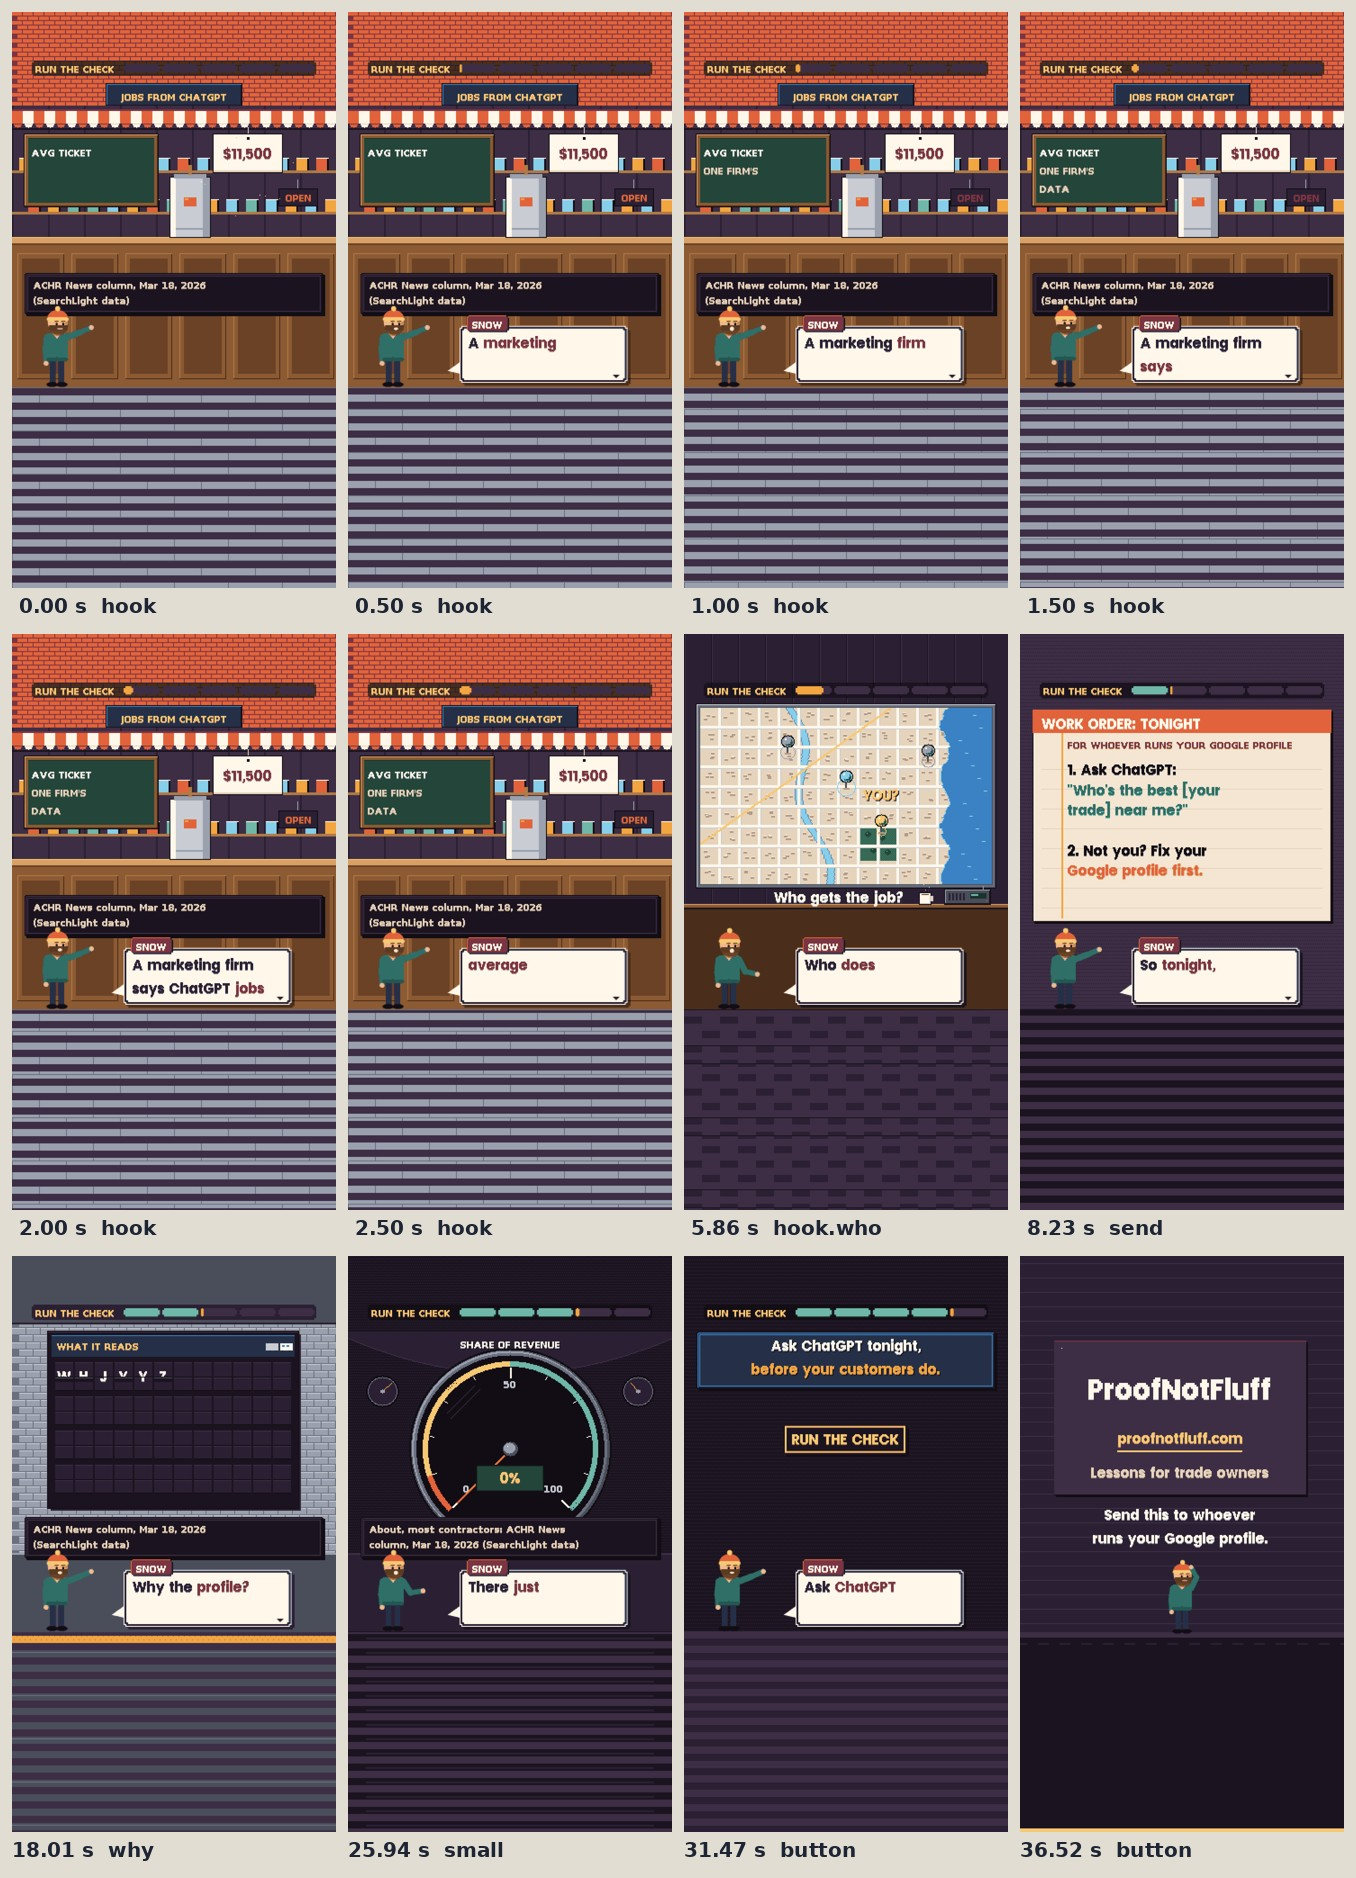
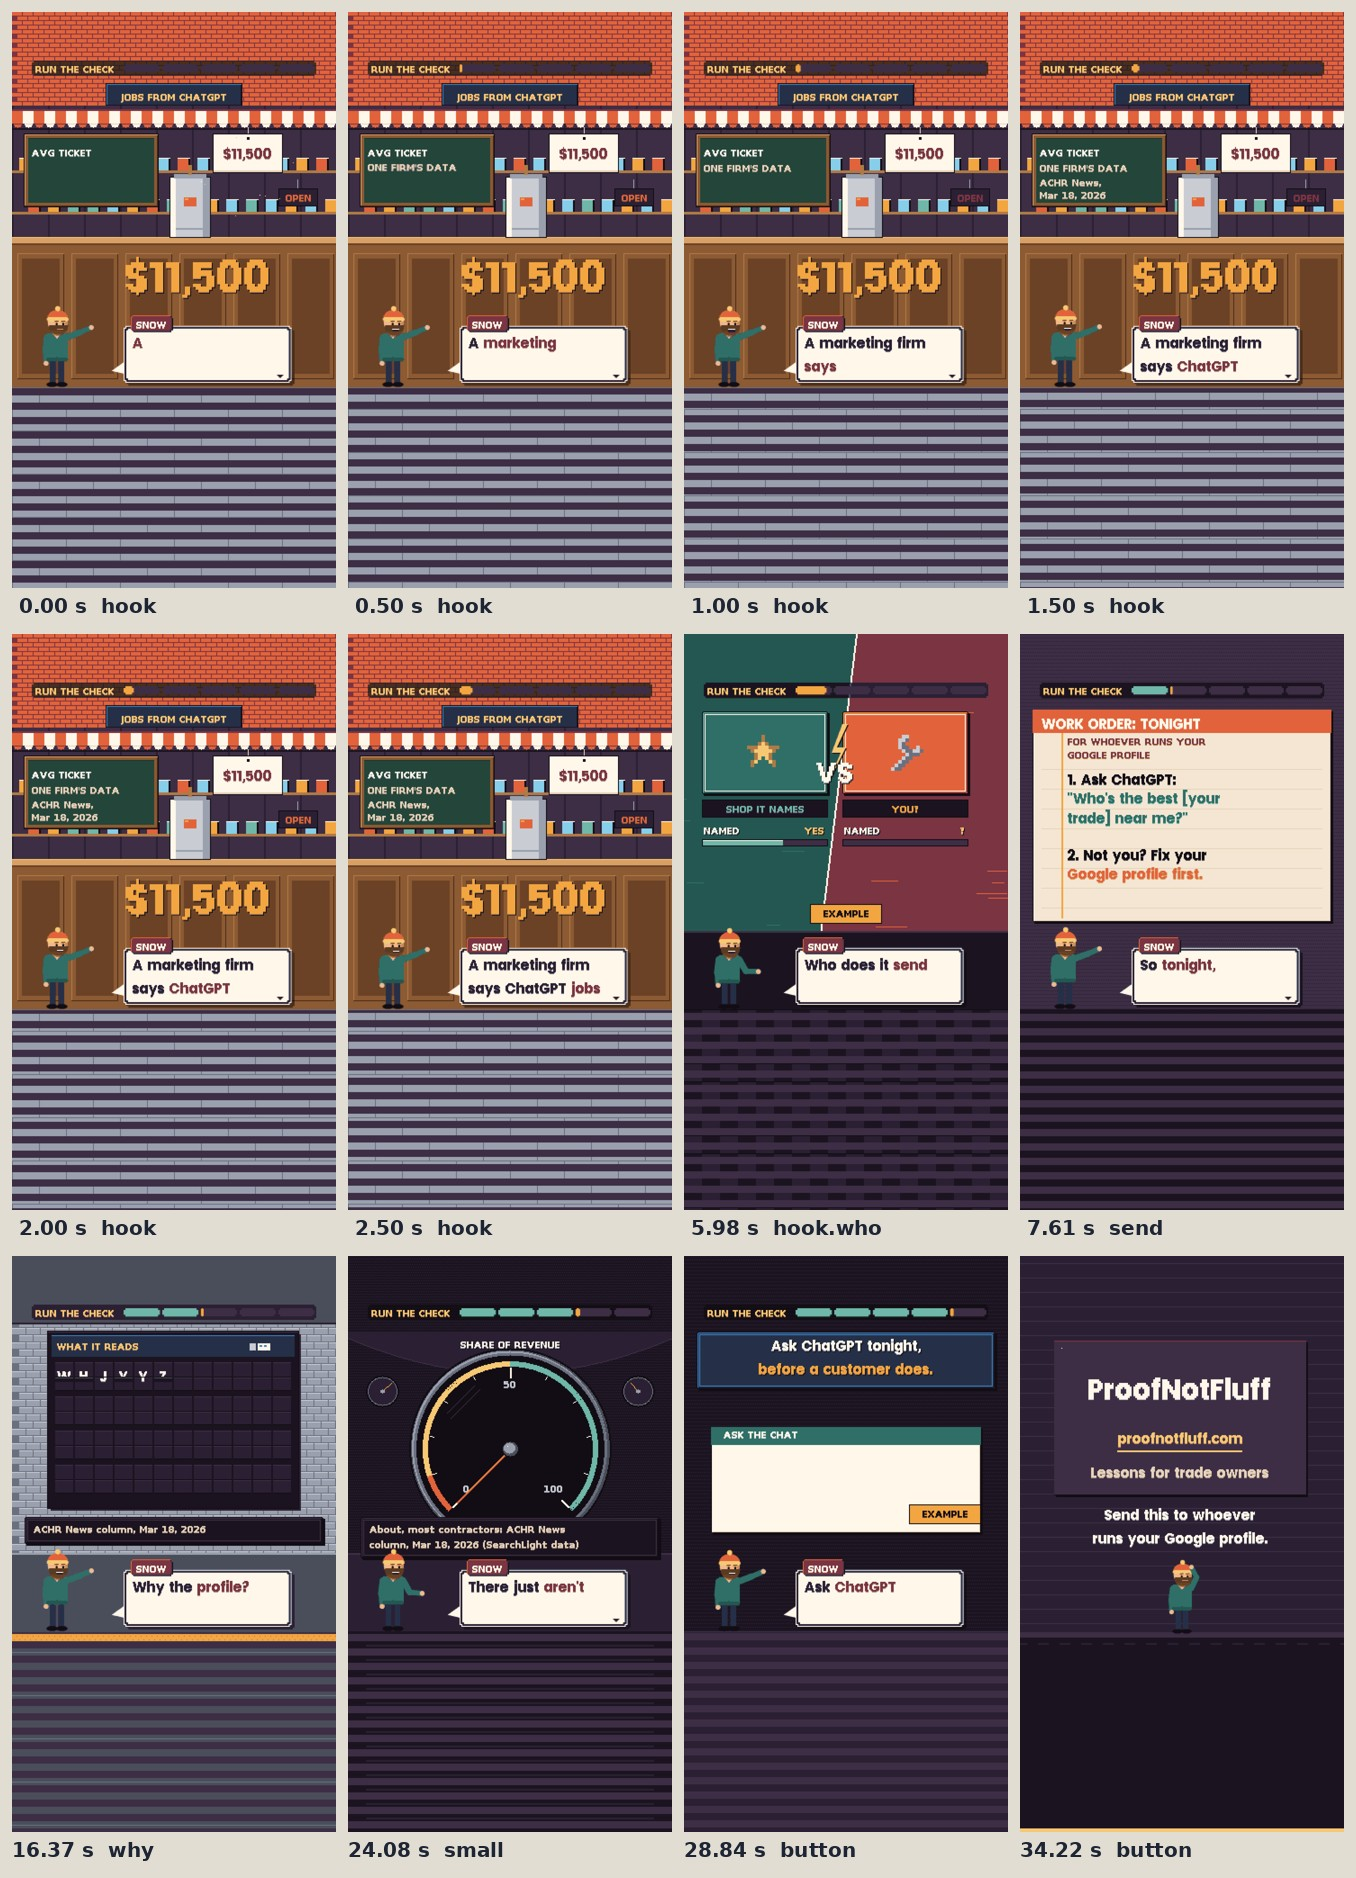
studio: chatgpt-check-short gates r0 (qa, facts, facts-captions, render critic 0 faults, send PASS; design FAIL 4.29), scene r2 on design r0's six fixes and the facts and send notes
Claude-Session: https://claude.ai/code/session_01XMn4eG6pqnr4bMcGNovyWG

diff --git a/video/studio/videos/2026-11-23-chatgpt-check-short/04_scene/scene.js b/video/studio/videos/2026-11-23-chatgpt-check-short/04_scene/scene.js
@@ -73,12 +73,25 @@ const workOrder = (k, d, t0, o = {}) => {
   if (up) return;
   const at = (i) => (o.still ? -10 : t0 + 0.2 + i * 0.05), sl = {from: 0.3, glint: false};
   k.text('WORK ORDER: TONIGHT', 72, 266, {size: 52, color: CREAM});
-  k.text('FOR WHOEVER RUNS YOUR GOOGLE PROFILE', 160, 352, {size: 36, color: '#7A3442'});
-  k.slam('1. Ask ChatGPT:', 160, 420, at(0), Object.assign({size: 52, color: INK}, sl));
-  k.slam('"Who\'s the best [your', 160, 488, at(1), Object.assign({size: 56, color: '#2F6F67'}, sl));
-  k.slam('trade] near me?"', 160, 554, at(2), Object.assign({size: 56, color: '#2F6F67'}, sl));
-  k.slam('2. Not you? Fix your', 160, 690, at(3), Object.assign({size: 56, color: INK}, sl));
-  k.slam('Google profile first.', 160, 756, at(4), Object.assign({size: 56, color: RED}, sl));
+  k.text('FOR WHOEVER RUNS YOUR', 160, 340, {size: 42, color: '#7A3442'}); k.text('GOOGLE PROFILE', 160, 384, {size: 42, color: '#7A3442'});   /* send r0 note: one size up */
+  k.slam('1. Ask ChatGPT:', 160, 452, at(0), Object.assign({size: 52, color: INK}, sl));
+  k.slam('"Who\'s the best [your', 160, 516, at(1), Object.assign({size: 56, color: '#2F6F67'}, sl));
+  k.slam('trade] near me?"', 160, 582, at(2), Object.assign({size: 56, color: '#2F6F67'}, sl));
+  k.slam('2. Not you? Fix your', 160, 704, at(3), Object.assign({size: 56, color: INK}, sl));
+  k.slam('Google profile first.', 160, 770, at(4), Object.assign({size: 56, color: RED}, sl));
+};
+
+/* our own drawn chat box on her phone (EXAMPLE, no brand, no reply): the question types from t0 */
+const chatBox = (k, d, q, t0, o = {}) => {
+  const {P, win} = d, up = d.ease(t0 - 0.1, 6, 40);
+  win(30, 150 + up, 300, 118, {base: CREAM, hi: '#FFFFFF', lo: SAND, rule: false});
+  P(30, 150 + up, 300, 20, '#2F6F67'); k.text('ASK THE CHAT', 132, 456 + up * 3, {size: 39, color: CREAM});
+  if (up) return;
+  const n = Math.max(0, Math.floor((k.T - t0) * 34)); let left = n;
+  q.forEach((s, i) => { const m = Math.min(s.length, left); left -= m; if (m) k.text(s.slice(0, m), 120, 540 + i * 62, {size: 48, color: INK}); });
+  const done = n >= q.join('').length;
+  if (done) { P(290, 236, 28, 22, '#2F6F67'); d.line(298, 247, 310, 247, CREAM, 2); d.line(306, 242, 311, 247, CREAM, 2); d.line(306, 252, 311, 247, CREAM, 2);
+    const dots = Math.floor((k.T - t0) * 3) % 4; for (let i = 0; i < 3; i++) d.disc(52 + i * 12, 248, 3, i < dots ? '#2F6F67' : SAND); }
 };
 
 window.SCENE = {
@@ -87,7 +100,7 @@ window.SCENE = {
   host_name: 'Snow',
   hud: 'RUN THE CHECK',
   sendLine: 'Send this to whoever runs your Google profile.',
-  transitions: {send: 'levelselect', why: 'mosaic', small: 'dissolve', button: 'gameover'},
+  transitions: {send: 'dissolve', why: 'mosaic', small: 'fade4', button: 'levelselect'}   /* design r0: not angi-four-pros' moves */,
   trauma: {},
   sections: {
     /* ---- hook: the cover is the storefront with the tag at the firm's average ticket; on "eleven" the tag sways in;   */
@@ -98,15 +111,17 @@ window.SCENE = {
         k.sets.counter({shop: 'JOBS FROM CHATGPT', item: 'heater', tags: [{price: tk.shown, at: -0.5}]});
         const d = px(k), tA = Math.min(0.9, wordT(k, 'hook', /^firm/i, 0.8) - 0.2), tB = Math.min(2.2, wordT(k, 'hook', /^chatgpt/i, 1.6) - 0.2);
         k.text('AVG TICKET', 66, 450, {size: 39, color: CREAM});
-        if (T >= tA) k.slam("ONE FIRM'S", 66, 510, tA, {size: 39, color: SAND, from: 0.3, glint: false});
-        if (T >= tB) k.slam('DATA', 66, 570, tB, {size: 39, color: SAND, from: 0.3, glint: false});
-        if (T >= tEl) stampBox(k, 'PER JOB', 780, 640, tEl, {color: GOLD, size: 52, freeze: 3});
-        tag(k, d, 'ACHR News column, Mar 18, 2026', 290, '(SearchLight data)');
+        if (T >= tA) k.slam("ONE FIRM'S DATA", 66, 500, tA, {size: 36, color: SAND, from: 0.3, glint: false});
+        if (T >= tB) { k.slam('ACHR News,', 66, 548, tB, {size: 36, color: SAND, from: 0.3, glint: false}); k.slam('Mar 18, 2026', 66, 590, tB + 0.05, {size: 36, color: SAND, from: 0.3, glint: false}); }
+        /* design r0: the stake as one huge number from frame 0 (accent, 170 px); it kicks on "eleven" */
+        if (T < tEl) k.text(tk.shown, 620, 790, {size: 170, color: 'accent', align: 'center', drop: INK});
+        else k.slam(tk.shown, 620, 790, tEl, {size: 170, color: 'accent', align: 'center', drop: INK, from: 0.85, shake: 6});
         return host(k, T >= tEl ? 'shock' : 'point');
       }
       const tS = wordT(k, 'hook.who', /^send/i, 0.6) - 0.2;
       /* our versus screen (EXAMPLE): the shop it names against YOU?; no winner is drawn, the question stays open */
-      k.sets.versus({a: {name: 'SHOP IT NAMES', icon: 'star', stats: []}, b: {name: 'YOU?', icon: 'wrench', stats: []}, at: tWho, vsAt: tS});
+      k.sets.versus({a: {name: 'SHOP IT NAMES', icon: 'star', stats: [{label: 'NAMED', value: 1, text: 'YES'}]}, b: {name: 'YOU?', icon: 'wrench', stats: [{label: 'NAMED', value: 0, text: '?'}]}, at: tWho, vsAt: tS, max: 1});
+      exampleTag(px(k), 140, 300);   /* facts r0 note: our story beat, labeled */
       return host(k);
     },
 
@@ -123,14 +138,15 @@ window.SCENE = {
     why: (k, T) => {
       const t0 = k.S('why'), ts = [wordT(k, 'why', /^name/i, 3.0) - 0.3, wordT(k, 'why', /^website/i, 3.6) - 0.3, wordT(k, 'why', /^reviews/i, 4.2) - 0.3];
       const r = k.sets.flaps({title: 'WHAT IT READS', cols: 12, rows: [{label: 'NAME', value: 'YOURS', at: Math.min(ts[0], t0 + 0.4)}, {label: 'WEBSITE', value: 'YOURS', at: ts[1]}, {label: 'REVIEWS', value: 'YOURS', at: ts[2], hi: true}]});
-      const d = px(k); tag(k, d, 'ACHR News column, Mar 18, 2026', 290, '(SearchLight data)');
+      const d = px(k); tag(k, d, 'ACHR News column, Mar 18, 2026', 290);   /* facts r0 note: the column's own line, not a SearchLight number */
       return host(k, 'point');
     },
 
     /* ---- small: the gauge, the needle barely leaves zero: about 1% of revenue, most contractors, today.               */
     small: (k, T) => {
       const t0 = k.S('small'), tOne = wordT(k, 'small', /^one$/i, 1.6) - 0.4, r1 = k.data.numbers.rev1;
-      const r = k.sets.gauge({value: r1.value, max: 100, at: Math.max(t0 + 0.2, tOne - 0.6), dur: 0.8, zones: [[0, 10, RED], [10, 50, GOLD], [50, 100, TEAL]], label: 'SHARE OF REVENUE', suffix: '%'});
+      const r = k.sets.gauge({value: r1.value, max: 100, at: Math.max(t0 + 0.2, tOne - 0.6), dur: 0.8, zones: [[0, 10, RED], [10, 50, GOLD], [50, 100, TEAL]], label: 'SHARE OF REVENUE', suffix: '%', readout: false});
+      if (T >= tOne) k.slam(r1.shown, 540, 680, tOne, {size: 150, color: 'accent', align: 'center', drop: INK, from: 0.6, shake: 8});   /* design r0: the verdict lands big with a kick */
       const d = px(k);
       tag(k, d, 'About, most contractors: ACHR News', 290, 'column, Mar 18, 2026 (SearchLight data)');
       return host(k, T >= tOne ? 'shrug' : null);
@@ -142,7 +158,9 @@ window.SCENE = {
       const d = px(k), {P, dith} = d;
       P(0, 0, 360, 417, '#1B1420'); for (let y = 0; y < 417; y += 4) dith(0, y, 360, 1, '#241A2B', (y / 4) % 2);
       topPlate(k, d, 'Ask ChatGPT tonight,', 'before a customer does.', k.S('button') + 0.02);
-      if (T >= tA) stampBox(k, 'RUN THE CHECK', 540, 560, tA, {color: GOLD, size: 66, freeze: 3});
+      /* design r0: the band carries the question itself, typing into our own chat box (EXAMPLE) */
+      chatBox(k, d, ["Who's the best [trade]", 'near me?'], Math.max(k.S('button') + 0.3, tA));
+      exampleTag(d, 250, 276);
       return host(k, 'point');
     },
   },

diff --git a/video/studio/videos/2026-11-23-chatgpt-check-short/03_cues/cues.js b/video/studio/videos/2026-11-23-chatgpt-check-short/03_cues/cues.js
@@ -1,1 +1,1 @@
-window.CUES = {"schema": "pnf.studio.cues.v1", "source": "whisper medium.en int8, re-spelled from script.md", "music": {"id": "rooms", "level": 0.16, "tune": "quest"}, "duration": 34.539, "cues": [{"id": "hook", "level": 0, "quote": "A marketing firm says", "sfx": "pop", "shift": 0.0, "pin": null, "text": "Cover, frame one: the storefront (counter set), a furnace on the counter, the tag already reads $11,500; plate \"ChatGPT jobs:\" / \"$11,500 avg ticket\"; the chalk board: AVG CHATGPT JOB, the source tag under it. The host in frame. On \"eleven\" the tag sways and sparks.", "t": 0.0, "word": 0, "end": 7.007}, {"id": "hook.who", "level": 1, "quote": "Who does it send", "sfx": "whoosh", "shift": 0.0, "pin": null, "text": "The dispatch board: three shop pins drop (SHOP A, SHOP B, YOU?), a route draws from the homeowner's pin toward one shop; a big \"?\" over YOU.", "t": 5.38, "word": 14, "end": 7.007}, {"id": "send", "level": 0, "quote": "So tonight, ask ChatGPT", "sfx": "stamp", "shift": 0.0, "pin": null, "text": "THE CHECK as a work order (the send moment): WORK ORDER: TONIGHT, FOR WHOEVER RUNS YOUR GOOGLE PROFILE; step 1 the question to type, step 2 \"Not you? Fix your Google profile first.\" Every line lands in the first half second, then nothing moves over it while the voice runs on.", "send": true, "t": 7.007, "word": 20, "end": 15.765}, {"id": "why", "level": 0, "quote": "Why the profile? The", "sfx": "whoosh", "shift": 0.0, "pin": null, "text": "The departures board: WHAT IT READS; NAME, WEBSITE, REVIEWS flip to YOURS on their words. Tag ACHR News column, Mar 18, 2026.", "t": 15.765, "word": 39, "end": 23.478}, {"id": "small", "level": 0, "quote": "There just aren't many", "sfx": "blip", "shift": 0.0, "pin": null, "text": "The gauge: SHARE OF REVENUE, the needle barely leaves zero and settles on 1%; label \"most contractors, today\". Same tag.", "t": 23.478, "word": 58, "end": 28.239}, {"id": "button", "level": 0, "quote": "Ask ChatGPT tonight, before", "sfx": "chime", "shift": 0.0, "pin": null, "text": "The work order again, small and still; plate \"Ask it tonight.\" Then the end card with the send line.", "t": 28.239, "word": 71, "end": 34.539}]};
+window.CUES = {"schema": "pnf.studio.cues.v1", "source": "whisper medium.en int8, re-spelled from script.md", "music": {"id": "rooms", "level": 0.16, "tune": "quest"}, "duration": 34.519, "cues": [{"id": "hook", "level": 0, "quote": "A marketing firm says", "sfx": "pop", "shift": 0.0, "pin": null, "text": "Cover, frame one: the storefront (counter set), a furnace on the counter, the tag already reads $11,500; plate \"ChatGPT jobs:\" / \"$11,500 avg ticket\"; the chalk board: AVG CHATGPT JOB, the source tag under it. The host in frame. On \"eleven\" the tag sways and sparks.", "t": 0.0, "word": 0, "end": 7.007}, {"id": "hook.who", "level": 1, "quote": "Who does it send", "sfx": "whoosh", "shift": 0.0, "pin": null, "text": "The versus screen (EXAMPLE): SHOP IT NAMES against YOU?, VS slams on \"send\"; no winner is drawn.", "t": 5.38, "word": 14, "end": 7.007}, {"id": "send", "level": 0, "quote": "So tonight, ask ChatGPT", "sfx": "stamp", "shift": 0.0, "pin": null, "text": "THE CHECK as a work order (the send moment): WORK ORDER: TONIGHT, FOR WHOEVER RUNS YOUR GOOGLE PROFILE; step 1 the question to type, step 2 \"Not you? Fix your Google profile first.\" Every line lands in the first half second, then nothing moves over it while the voice runs on.", "send": true, "t": 7.007, "word": 20, "end": 15.765}, {"id": "why", "level": 0, "quote": "Why the profile? The", "sfx": "whoosh", "shift": 0.0, "pin": null, "text": "The departures board: WHAT IT READS; NAME, WEBSITE, REVIEWS flip to YOURS on their words. Tag ACHR News column, Mar 18, 2026.", "t": 15.765, "word": 39, "end": 23.478}, {"id": "small", "level": 0, "quote": "There just aren't many", "sfx": "blip", "shift": 0.0, "pin": null, "text": "The gauge: SHARE OF REVENUE, the needle barely leaves zero and settles on 1%; label \"most contractors, today\". Same tag.", "t": 23.478, "word": 58, "end": 28.239}, {"id": "button", "level": 0, "quote": "Ask ChatGPT tonight, before", "sfx": "chime", "shift": 0.0, "pin": null, "text": "The work order again, small and still; plate \"Ask ChatGPT tonight,\" / \"before a customer does.\" Then the end card with the send line.", "t": 28.239, "word": 71, "end": 34.519}]};

diff --git a/video/studio/videos/2026-11-23-chatgpt-check-short/02_transcript/mouth.js b/video/studio/videos/2026-11-23-chatgpt-check-short/02_transcript/mouth.js
@@ -1,1 +1,1 @@
[2 lines of base64/hex data omitted]

diff --git a/video/studio/LEARNINGS.md b/video/studio/LEARNINGS.md
@@ -62,3 +62,7 @@ The studio learns in three loops (Todd, Oct 28, 2026, 3:43 pm: "make this video 
 - 2026-11-07 lunch box queue: 1 job (captions variants for 2026-11-20-lsa-reports-short, plus its trial twin). Skipped: permit tag jobs b1 to b6 already queued today; no new backtest rounds; the two leads' records (public-inspection.federalregister.gov, servicetitan.com) are off the box reader's hosts. Box alive at 15:57 UTC, stop local off. No rung moves (no rung-1 job ran this slot).
 - 2026-11-07 proven lane build chat, 2026-11-21-angi-four-pros, the first proven lesson (PROVEN.md row 2, our own words; Angi's FAQ: charged as soon as sent, up to 4 pros): script r3 (facts r0 FAIL on "who calls first", an overstatement, fixed to "how fast you call back"; r1 PASS before voice), copy check 0 shared runs every time. Voice r1 45.8 s put the lesson under the 50 s band; five words added and takes 1 and 5 re-rolled once (take 1 stays 211 wpm): 47.2 s of voice, 50.3 s with the end card. Gates: three rounds. Design 3.86, 4.14, then 4.57 at the 4.50 bar: r0's main fault was freshness (the help-card room and the send card copied lsa-reports-short's layout), so a proven lesson still needs its own worlds; render critic r0 3 overlaps, then 0; facts, facts on captions and send PASS each round. Lint M3 and the design gate pulled against each other on the FAQ card (a quote with "charged" can't land before the hook's "charged" is said), so the page title fills the card first. No box pre-checks: pnf-local-jobs was not attached to the chat.
 - 2026-11-07 end-of-day: Facebook finished for 2026-11-18-lsa-max-bid via facebook.com/reels/create (the Page's Create reel button opened a native file picker instead of a dialog); the reel took about 2 minutes to show on the Reels tab.
+- 2026-11-07 end-of-day (cloud, 17:33 slot), local box: facts re-read for chatgpt-check-short (fetch, workhorse): the ACHR column read ok and all 5 lines it returned match the parent's facts.json word for word: clean; the Jobber thread 15769 returned an HTTP error to the box again (second day), so the short drops the forum's four. Read-aloud pre-check (workhorse) r0: flagged one real weak link (question to ask, fixed with "So") and a bare "Why?", but also listed 5 of 9 sentences as off voice and judged only 2 pairs: not clean (noisy). Retell pre-check (workhorse) r0: got the fix (Google profile) but not the ask-ChatGPT step, while code readcheck passed: not clean on the action. No rung moves (openings and story draft did not run).
+- 2026-11-07 end-of-day (cloud, 17:33 slot), 2026-11-23-chatgpt-check-short (short of ask-chatgpt): facts r0 on the script FAIL on one word ("those jobs are small" read as the ticket size; the source says the volume is small), fixed to "there just aren't many yet". Lint on the voice found two things a short now has to plan for: (1) 36.1 s over the 35 s cap, so the spoken send line went (the card and the end card already name the person); (2) any "your" in the last spoken line trips the accent check against the end card's "runs your Google profile" (lsa-reports-short hit the same): end a short without "your". Also: dispatch is in the last two lessons (after-hours-greeting), so the question became a versus screen. The voice clone ran 121 to 179 wpm per take; re-rolled once each, kept (Nov 7 morning note: it runs about 155).
+- 2026-11-07 end-of-day: this cloud container's default python3 is 3.11 (the repo needs 3.12+ f-strings) and it had no playwright, scipy or working cryptography; the run used python3.13 with those installed (pip for 3.13) and check_repo then ran clean. Environment only; no gate touched.
+- 2026-11-07 17 box queue: 14 jobs (12 backtest replays of ask-chatgpt story rounds r8 and r9, 2 caption-variant jobs for ask-chatgpt and angi-four-pros) plus trial twins; earlier this run 3 jobs (1 facts re-read fetch, read-aloud and retell pre-checks). Skipped: permit tags (b1 to b9 queued today, not merged yet), story finding (21 and 9 slots only), leads (no new ones on the box reader's hosts).
